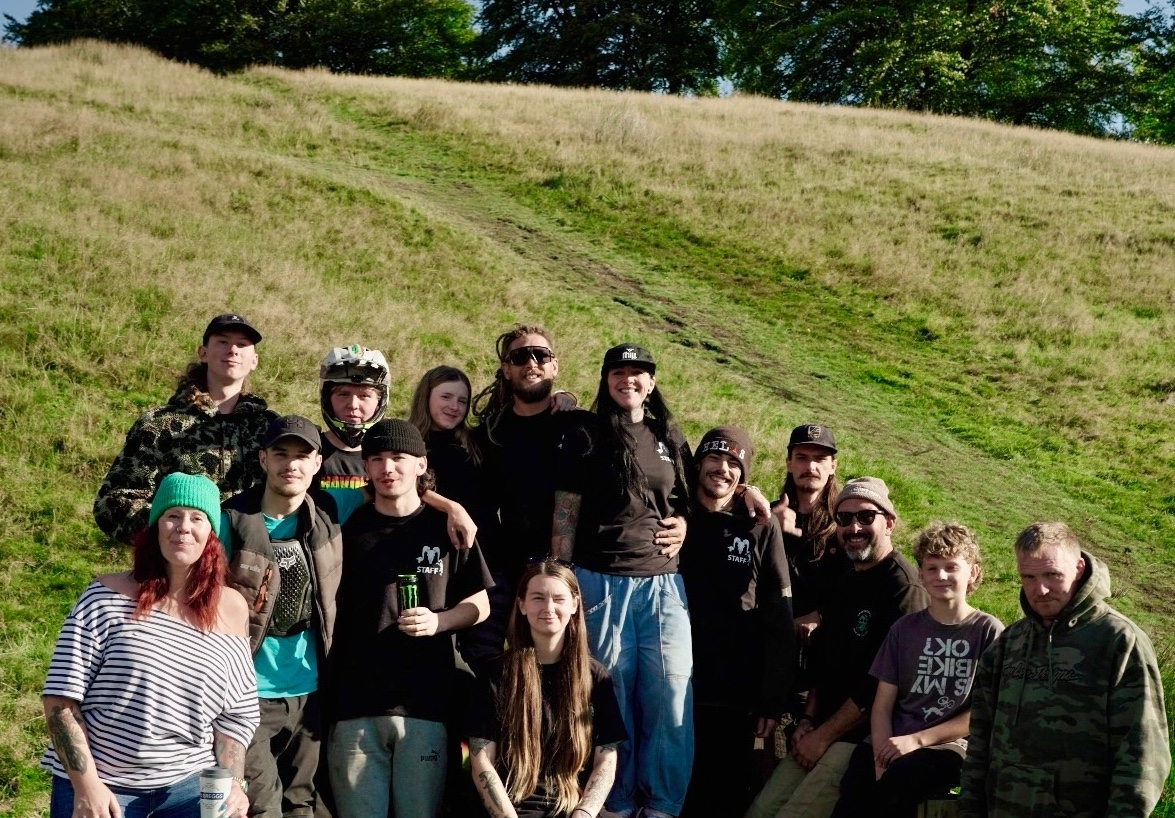
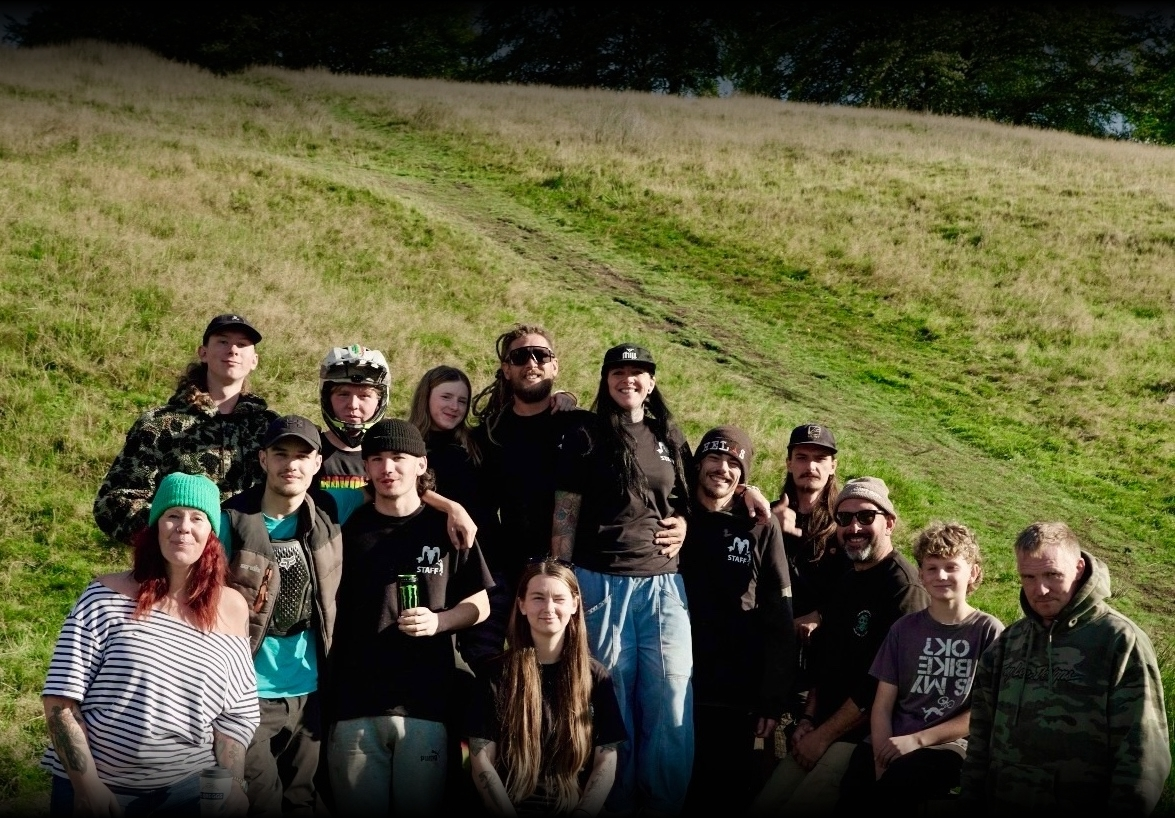
css update

diff --git a/assets/css/main.css b/assets/css/main.css
@@ -376,3 +376,25 @@ body.is-preload #banner p { opacity: 0; transform: translateX(0.5em); filter: bl
 @media screen and (max-width: 360px) {
 	.wrapper .inner, #footer .inner { padding: 2em 1.5em 0.1em 1.5em; }
 }
+/* Fix for zoomed-in transition images on mobile */
+@media screen and (max-width: 480px) {
+    #transition-1 {
+        background-size:contain;       /* Changed from 230% to cover */
+        background-repeat: no-repeat;
+        background-position: center;  /* Changed to center to match others */
+    }
+    
+    /* Keep your existing rules for transition-2 and transition-3 */
+    #transition-2 {
+        background-position: 60%;
+  
+    }
+
+    #transition-3 {
+        background-position: 60%;
+        background-size: contain;
+    }
+	.pricing-image {
+        display: none;
+	}
+}
